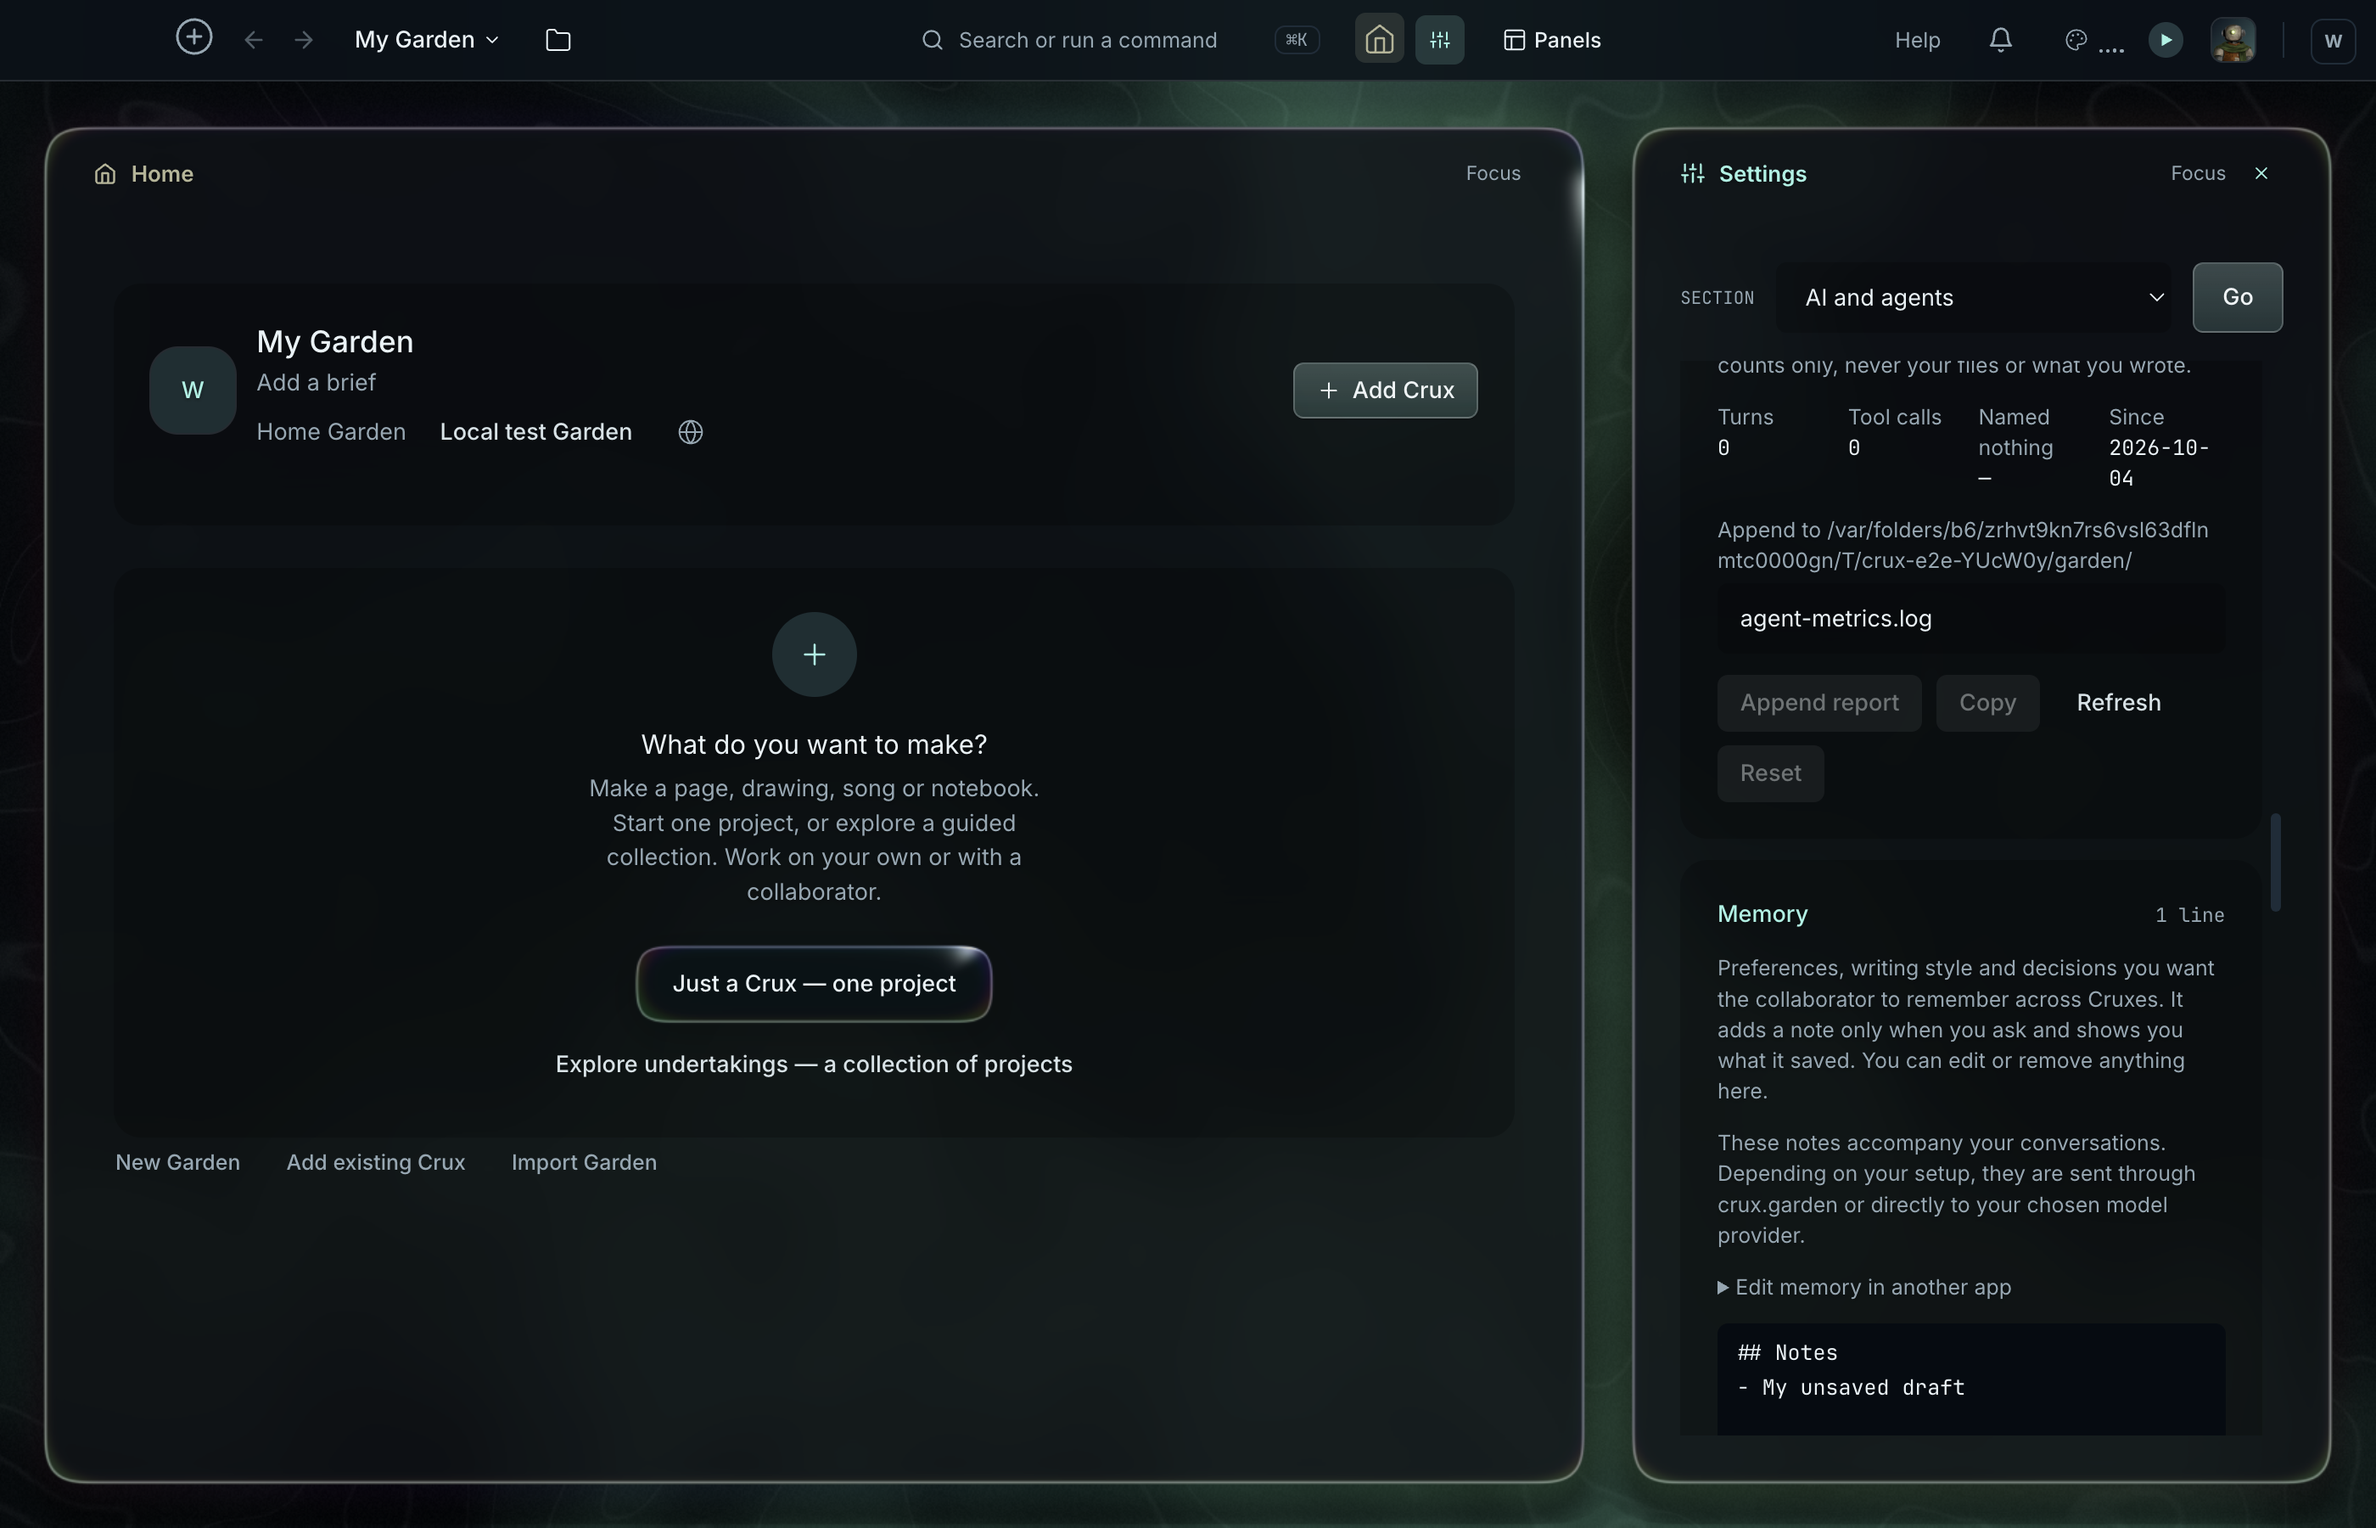
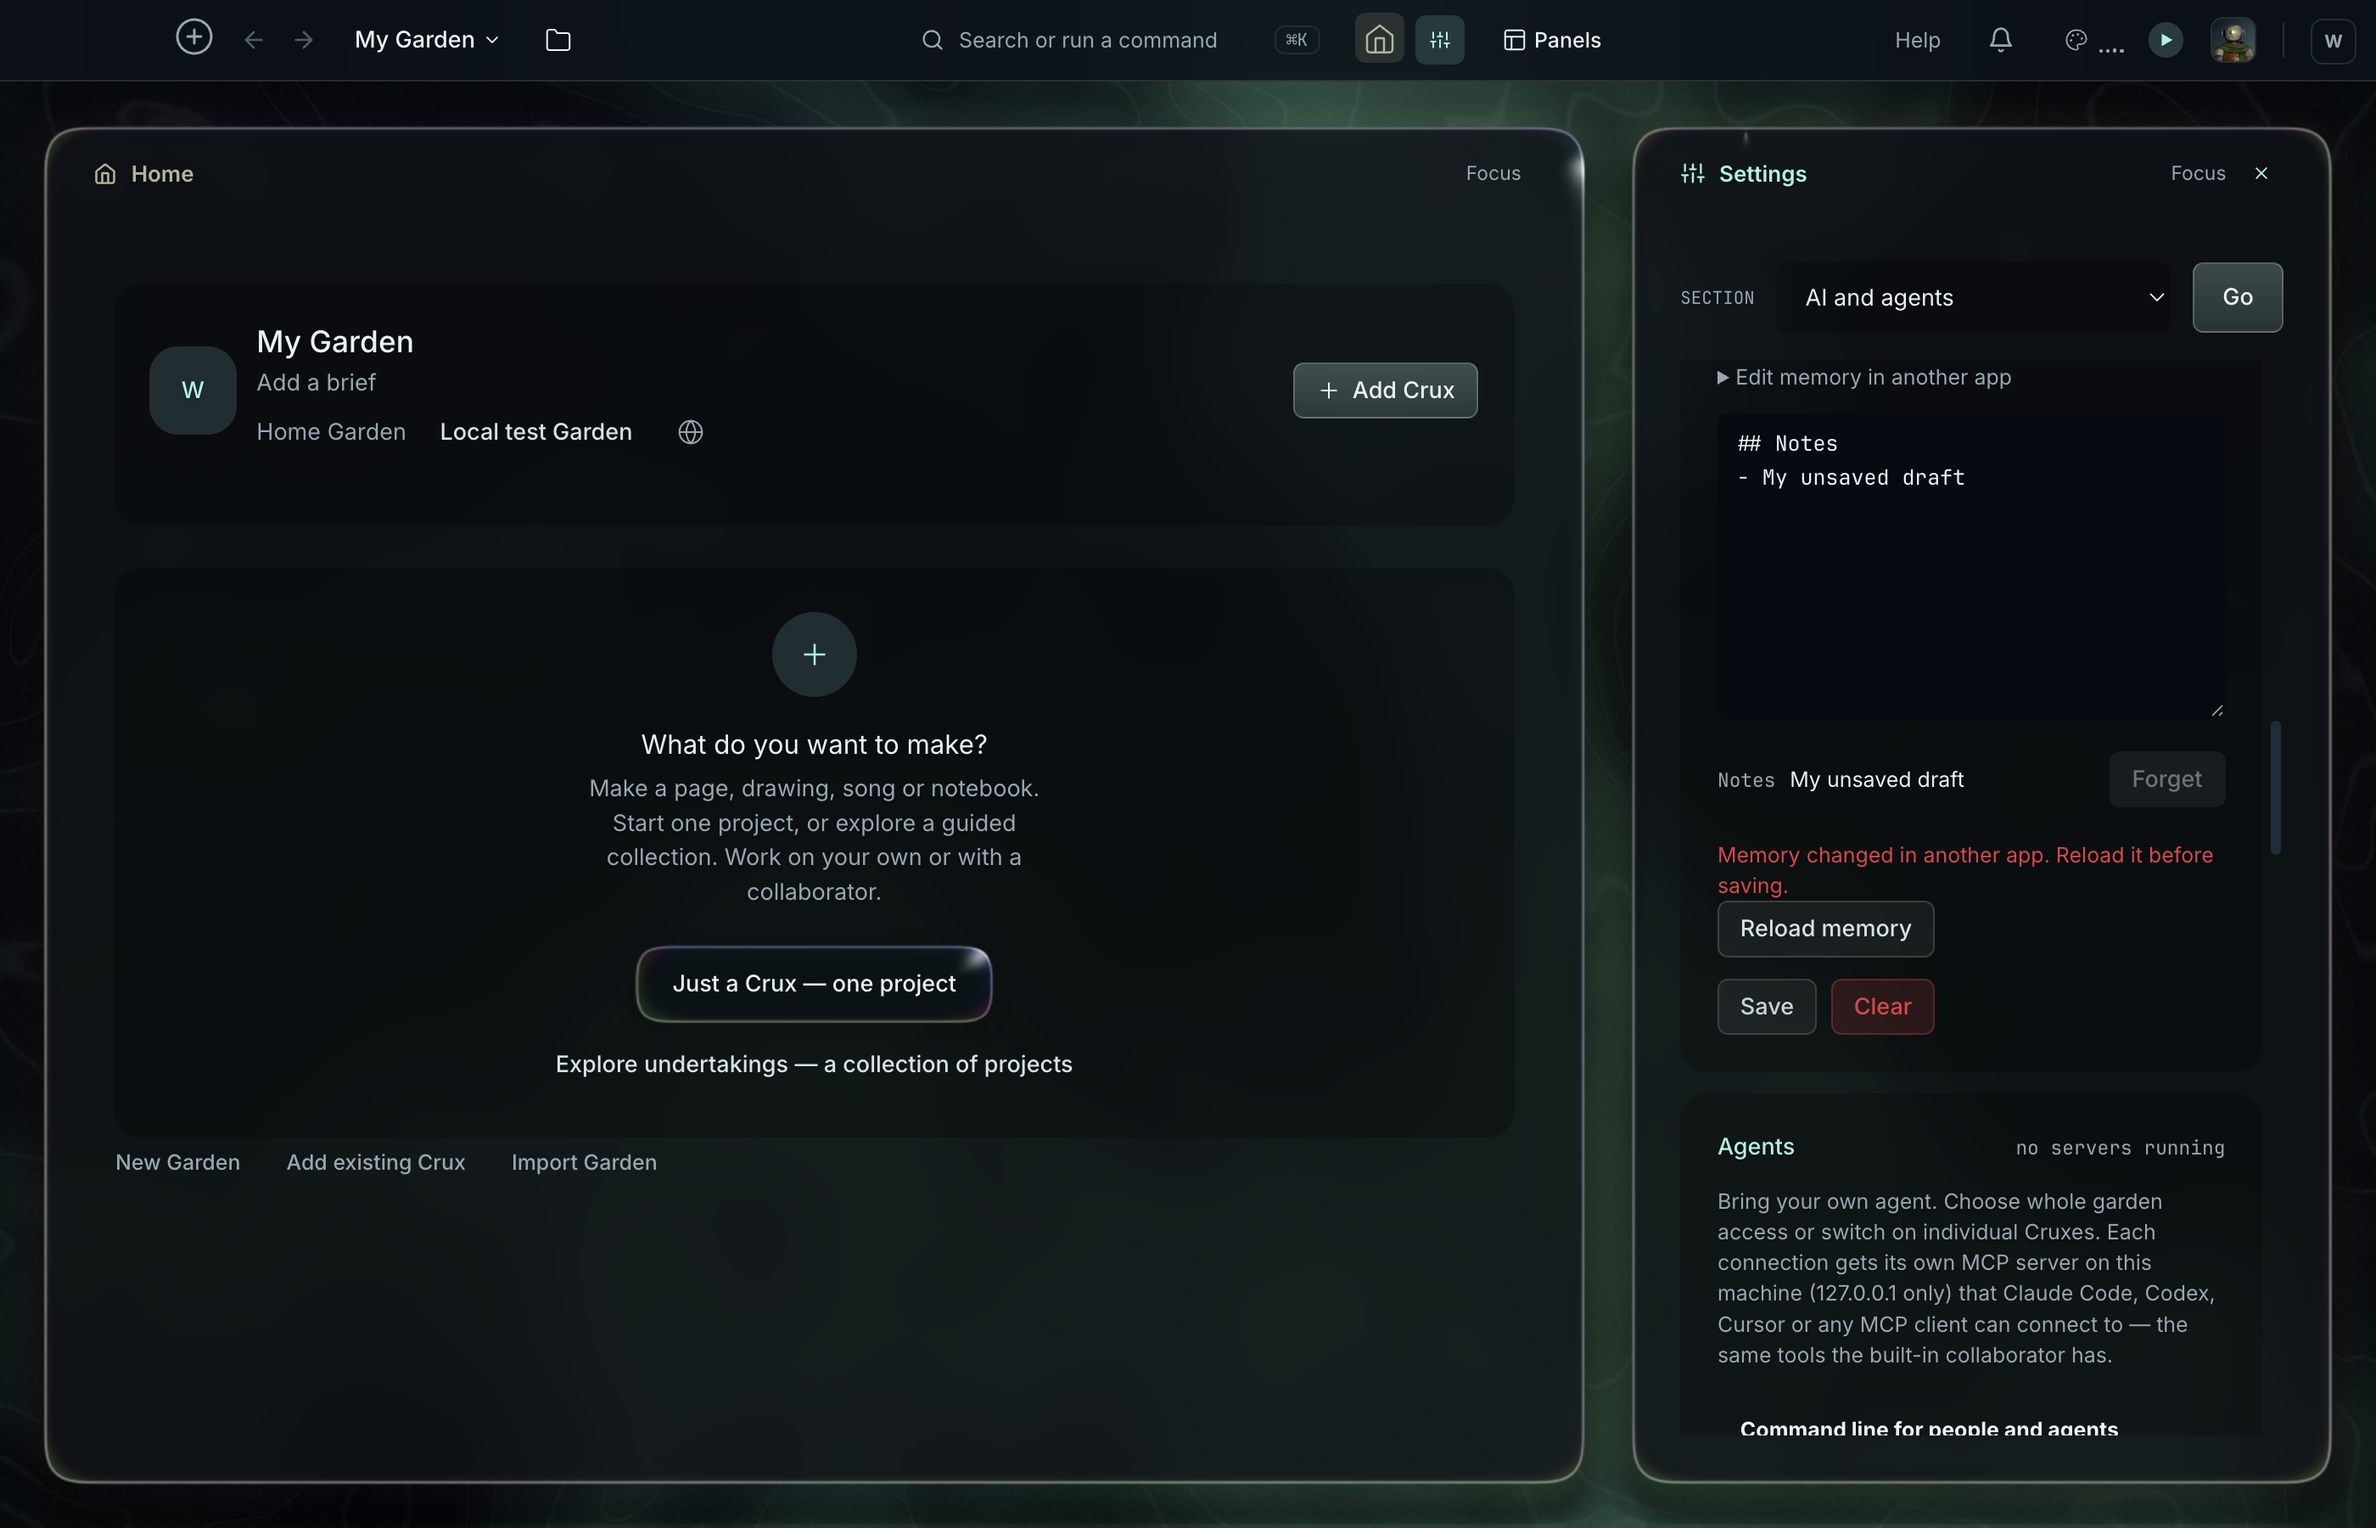
Keep latest-reply control clear of text and validate native outcomes

diff --git a/electron/e2e/conversation-reading.spec.ts b/electron/e2e/conversation-reading.spec.ts
@@ -16,11 +16,34 @@ test('reading earlier Collaboration stays put during a reply and can return to f
     await expect(reply).toContainText('Reading note 20:', { timeout: 30000 });
     const scroller = pane.getByRole('region', { name: 'Collaboration messages', exact: true });
     await scroller.hover();
+    const beforeWheel = await scroller.evaluate((el) => el.scrollTop);
     await page.mouse.wheel(0, -10000);
-    await expect.poll(() => scroller.evaluate((el) => el.scrollTop)).toBeLessThan(10);
-    await expect(reply).toContainText('Reading note 35:');
-    expect(await scroller.evaluate((el) => el.scrollTop)).toBeLessThan(10);
+    // Native wheel scrolling may stop short of zero (Linux CI: 1171 → 105).
+    // Require real upward movement, then preserve the settled reading position.
+    let previous = -1;
+    let settled = 0;
+    await expect
+      .poll(
+        async () => {
+          const top = await scroller.evaluate((el) => el.scrollTop);
+          settled = top < beforeWheel - 20 && Math.abs(top - previous) < 1 ? settled + 1 : 0;
+          previous = top;
+          return settled;
+        },
+        { intervals: [100, 200, 250] },
+      )
+      .toBeGreaterThanOrEqual(2);
+    const readingTop = await scroller.evaluate((el) => el.scrollTop);
+    const notes = (await reply.innerText()).matchAll(/Reading note (\d+):/g);
+    const nextNote = Math.min(120, Math.max(...Array.from(notes, (m) => Number(m[1]))) + 10);
+    await expect(reply).toContainText(`Reading note ${nextNote}:`);
+    expect(Math.abs((await scroller.evaluate((el) => el.scrollTop)) - readingTop)).toBeLessThan(2);
     await expect(pane.getByRole('button', { name: 'Latest reply', exact: true })).toBeVisible();
+    const viewportBox = (await scroller.boundingBox())!;
+    const latestBox = (await pane
+      .getByRole('button', { name: 'Latest reply', exact: true })
+      .boundingBox())!;
+    expect(latestBox.y).toBeGreaterThanOrEqual(viewportBox.y + viewportBox.height);
     await page.screenshot({ path: test.info().outputPath('reading-paused.png') });
     await pane.getByRole('button', { name: 'Latest reply', exact: true }).click();
     await expect(scroller).toBeFocused();
@@ -53,6 +76,11 @@ test('Garden conversation preserves reading position through completion and foll
     await expect(scroller).toContainText('Reading note 35:');
     expect(await scroller.evaluate((el) => el.scrollTop)).toBeLessThan(10);
     await expect(pane.getByRole('button', { name: 'Latest reply', exact: true })).toBeVisible();
+    const viewportBox = (await scroller.boundingBox())!;
+    const latestBox = (await pane
+      .getByRole('button', { name: 'Latest reply', exact: true })
+      .boundingBox())!;
+    expect(latestBox.y).toBeGreaterThanOrEqual(viewportBox.y + viewportBox.height);
     await page.screenshot({ path: test.info().outputPath('reading-paused.png') });
     await expect(scroller).toContainText('Reading note 120:', { timeout: 30000 });
     await expect(pane.getByTestId('keeper-status')).toBeHidden();

diff --git a/electron/e2e/share-feedback.spec.ts b/electron/e2e/share-feedback.spec.ts
@@ -93,13 +93,18 @@ test('unshare refuses an incomplete impact review and domain loading offers reco
       .getByRole('button', { name: 'Share without a backup' })
       .click();
     await expect(share).toContainText('Up to date', { timeout: 30000 });
+    const published = api.state.published[id].map((file) => ({
+      ...file,
+      bytes: Buffer.from(file.bytes),
+    }));
+    expect(published.some((file) => file.path === 'index.html')).toBe(true);
     await expect(share.getByTestId('custom-domains')).toContainText('Could not load your domains.');
     await share.getByRole('button', { name: 'Unshare', exact: true }).click();
     await expect(share).toContainText(
       'Could not review the domains and visitor data affected. Nothing was unshared. Try again.',
     );
     await expect(page.getByRole('dialog', { name: 'Unshare this crux' })).toHaveCount(0);
-    expect(api.state.published[id]).toHaveLength(1);
+    expect(api.state.published[id]).toEqual(published);
     await page.unroute(`${api.url}/cruxes/${id}/domains`);
     await share.getByRole('button', { name: 'Retry loading domains' }).click();
     await expect(share.getByTestId('custom-domains')).not.toContainText(
@@ -109,7 +114,7 @@ test('unshare refuses an incomplete impact review and domain loading offers reco
     const review = page.getByRole('dialog', { name: 'Unshare this crux' });
     await expect(review).toContainText('Takes the site offline. Your files and history stay here.');
     await review.getByRole('button', { name: 'Cancel', exact: true }).click();
-    expect(api.state.published[id]).toHaveLength(1);
+    expect(api.state.published[id]).toEqual(published);
   } finally {
     await app.close();
     await api.close();

diff --git a/src/components/chat/ConversationViewport.tsx b/src/components/chat/ConversationViewport.tsx
@@ -46,13 +46,13 @@ export default function ConversationViewport({
     return () => observer.disconnect();
   }, [sync]);
   return (
-    <div className="relative flex-1 min-h-0">
+    <div className="flex flex-col flex-1 min-h-0">
       <div
         ref={viewport}
         role="region"
         aria-label={label}
         tabIndex={0}
-        className="h-full overflow-y-auto [overflow-anchor:none]"
+        className="flex-1 min-h-0 overflow-y-auto [overflow-anchor:none]"
         onWheel={(event) => {
           if (event.deltaY < 0) following.current = false;
         }}
@@ -78,14 +78,14 @@ export default function ConversationViewport({
         </div>
       </div>
       {showLatest && (
-        <div className="absolute bottom-3 inset-x-0 flex justify-center pointer-events-none">
+        <div className="shrink-0 flex justify-center py-2">
           <button
             type="button"
             onClick={() => {
               latest();
               viewport.current?.focus({ preventScroll: true });
             }}
-            className={buttonClass('secondary', 'xs', 'pointer-events-auto')}
+            className={buttonClass('secondary', 'xs')}
           >
             Latest reply
           </button>

diff --git a/electron/e2e/memory-file.spec.ts b/electron/e2e/memory-file.spec.ts
@@ -17,6 +17,7 @@ test('Memory refuses an outside edit without losing the draft, reloads and saves
     const toggle = pane.getByRole('switch', { name: 'Enable AI Tools' });
     if (!(await toggle.isChecked())) await toggle.click();
     await expect(toggle).toBeChecked();
+    if ((await expand.getAttribute('aria-expanded')) === 'true') await expand.click();
     return launched.page.getByTestId('memory-text');
   };
   try {
@@ -35,6 +36,8 @@ test('Memory refuses an outside edit without losing the draft, reloads and saves
     await expect(error).toContainText('Memory changed in another app');
     await expect(input).toHaveValue(/My unsaved draft/);
     expect(readFileSync(file, 'utf8')).toContain('Written in another editor');
+    await error.scrollIntoViewIfNeeded();
+    await expect(error).toBeInViewport();
     await launched.page.screenshot({ path: test.info().outputPath('memory-conflict.png') });
     await error.getByRole('button', { name: 'Reload memory' }).click();
     const confirmation = launched.page.getByRole('dialog', { name: 'Reload memory' });
